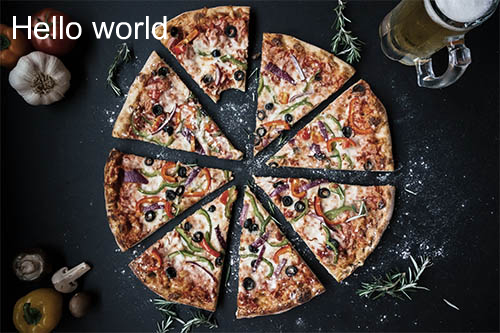
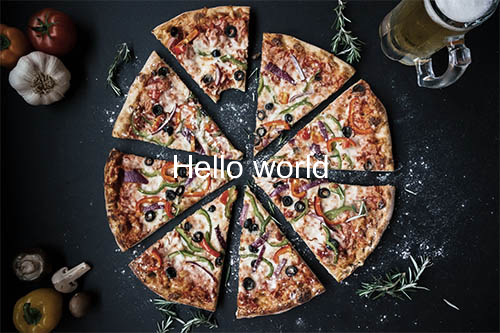
Modify addTextWatermarkToImage function

Changed region(s): [[0.0, 0.0601, 0.36, 0.1201], [0.33, 0.4505, 0.66, 0.5405]]

diff --git a/app.js b/app.js
@@ -3,7 +3,13 @@ const Jimp = require('jimp');
 const addTextWatermarkToImage = async function(inputFile, outputFile, text) {
   const image = await Jimp.read(inputFile);
   const font = await Jimp.loadFont(Jimp.FONT_SANS_32_WHITE);
-  image.print(font, 10, 10, text);
+  const textData = {
+    text,
+    alignmentX: Jimp.HORIZONTAL_ALIGN_CENTER,
+    alignmentY: Jimp.VERTICAL_ALIGN_MIDDLE,
+  };
+
+  image.print(font, 0, 0, textData, image.getWidth(), image.getHeight());
   await image.quality(100).writeAsync(outputFile);
 };
 
